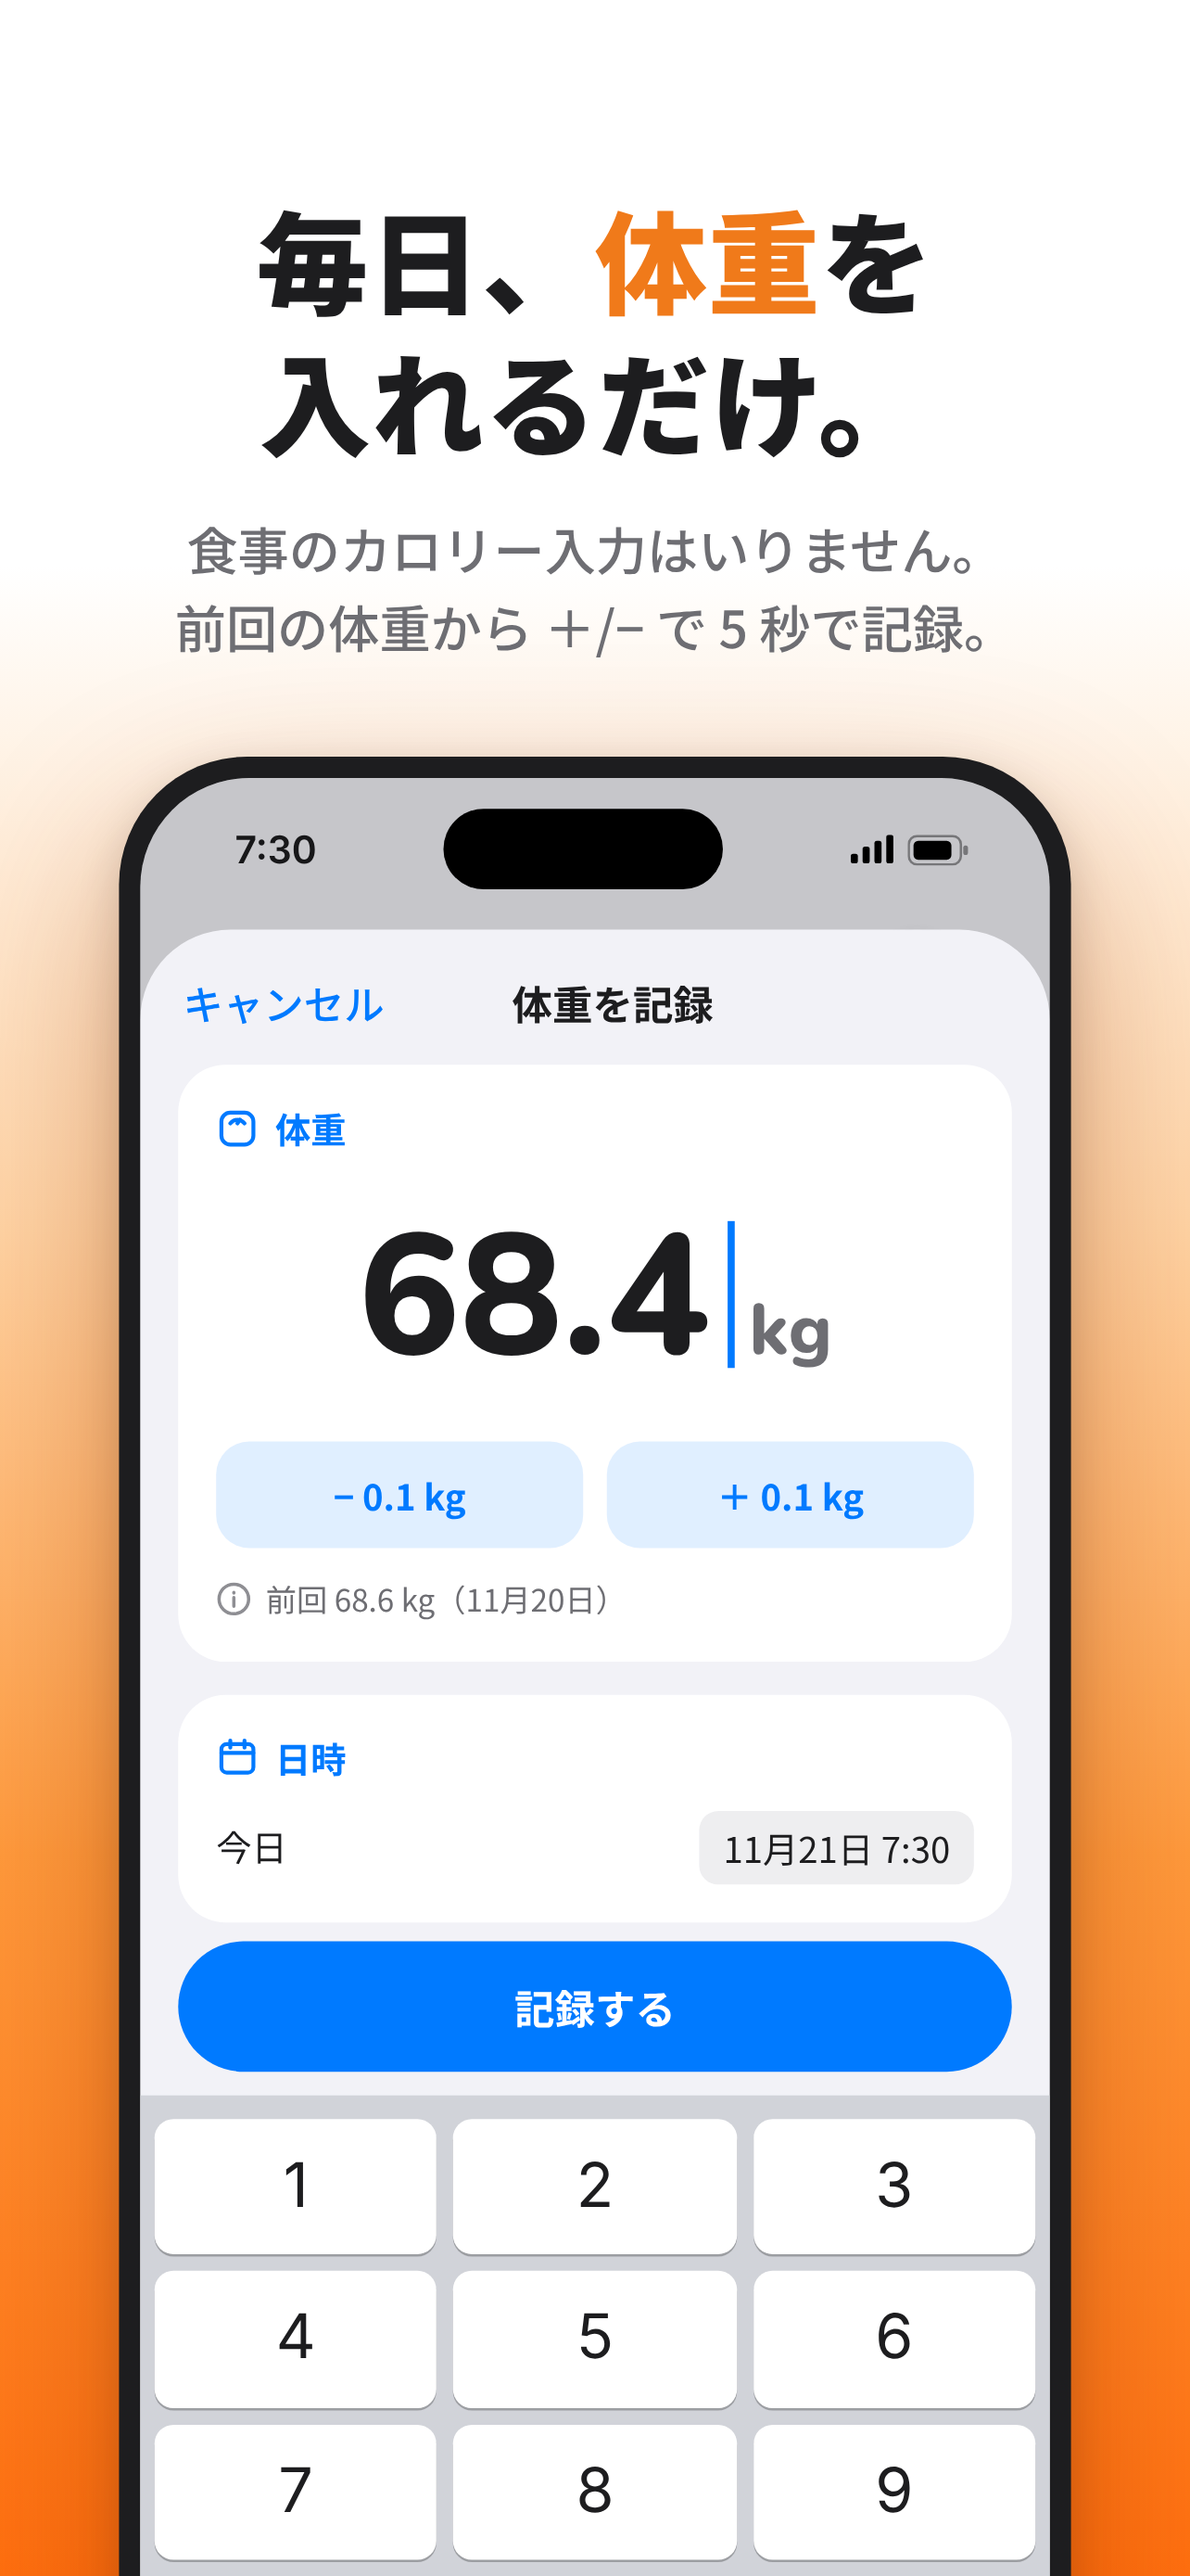
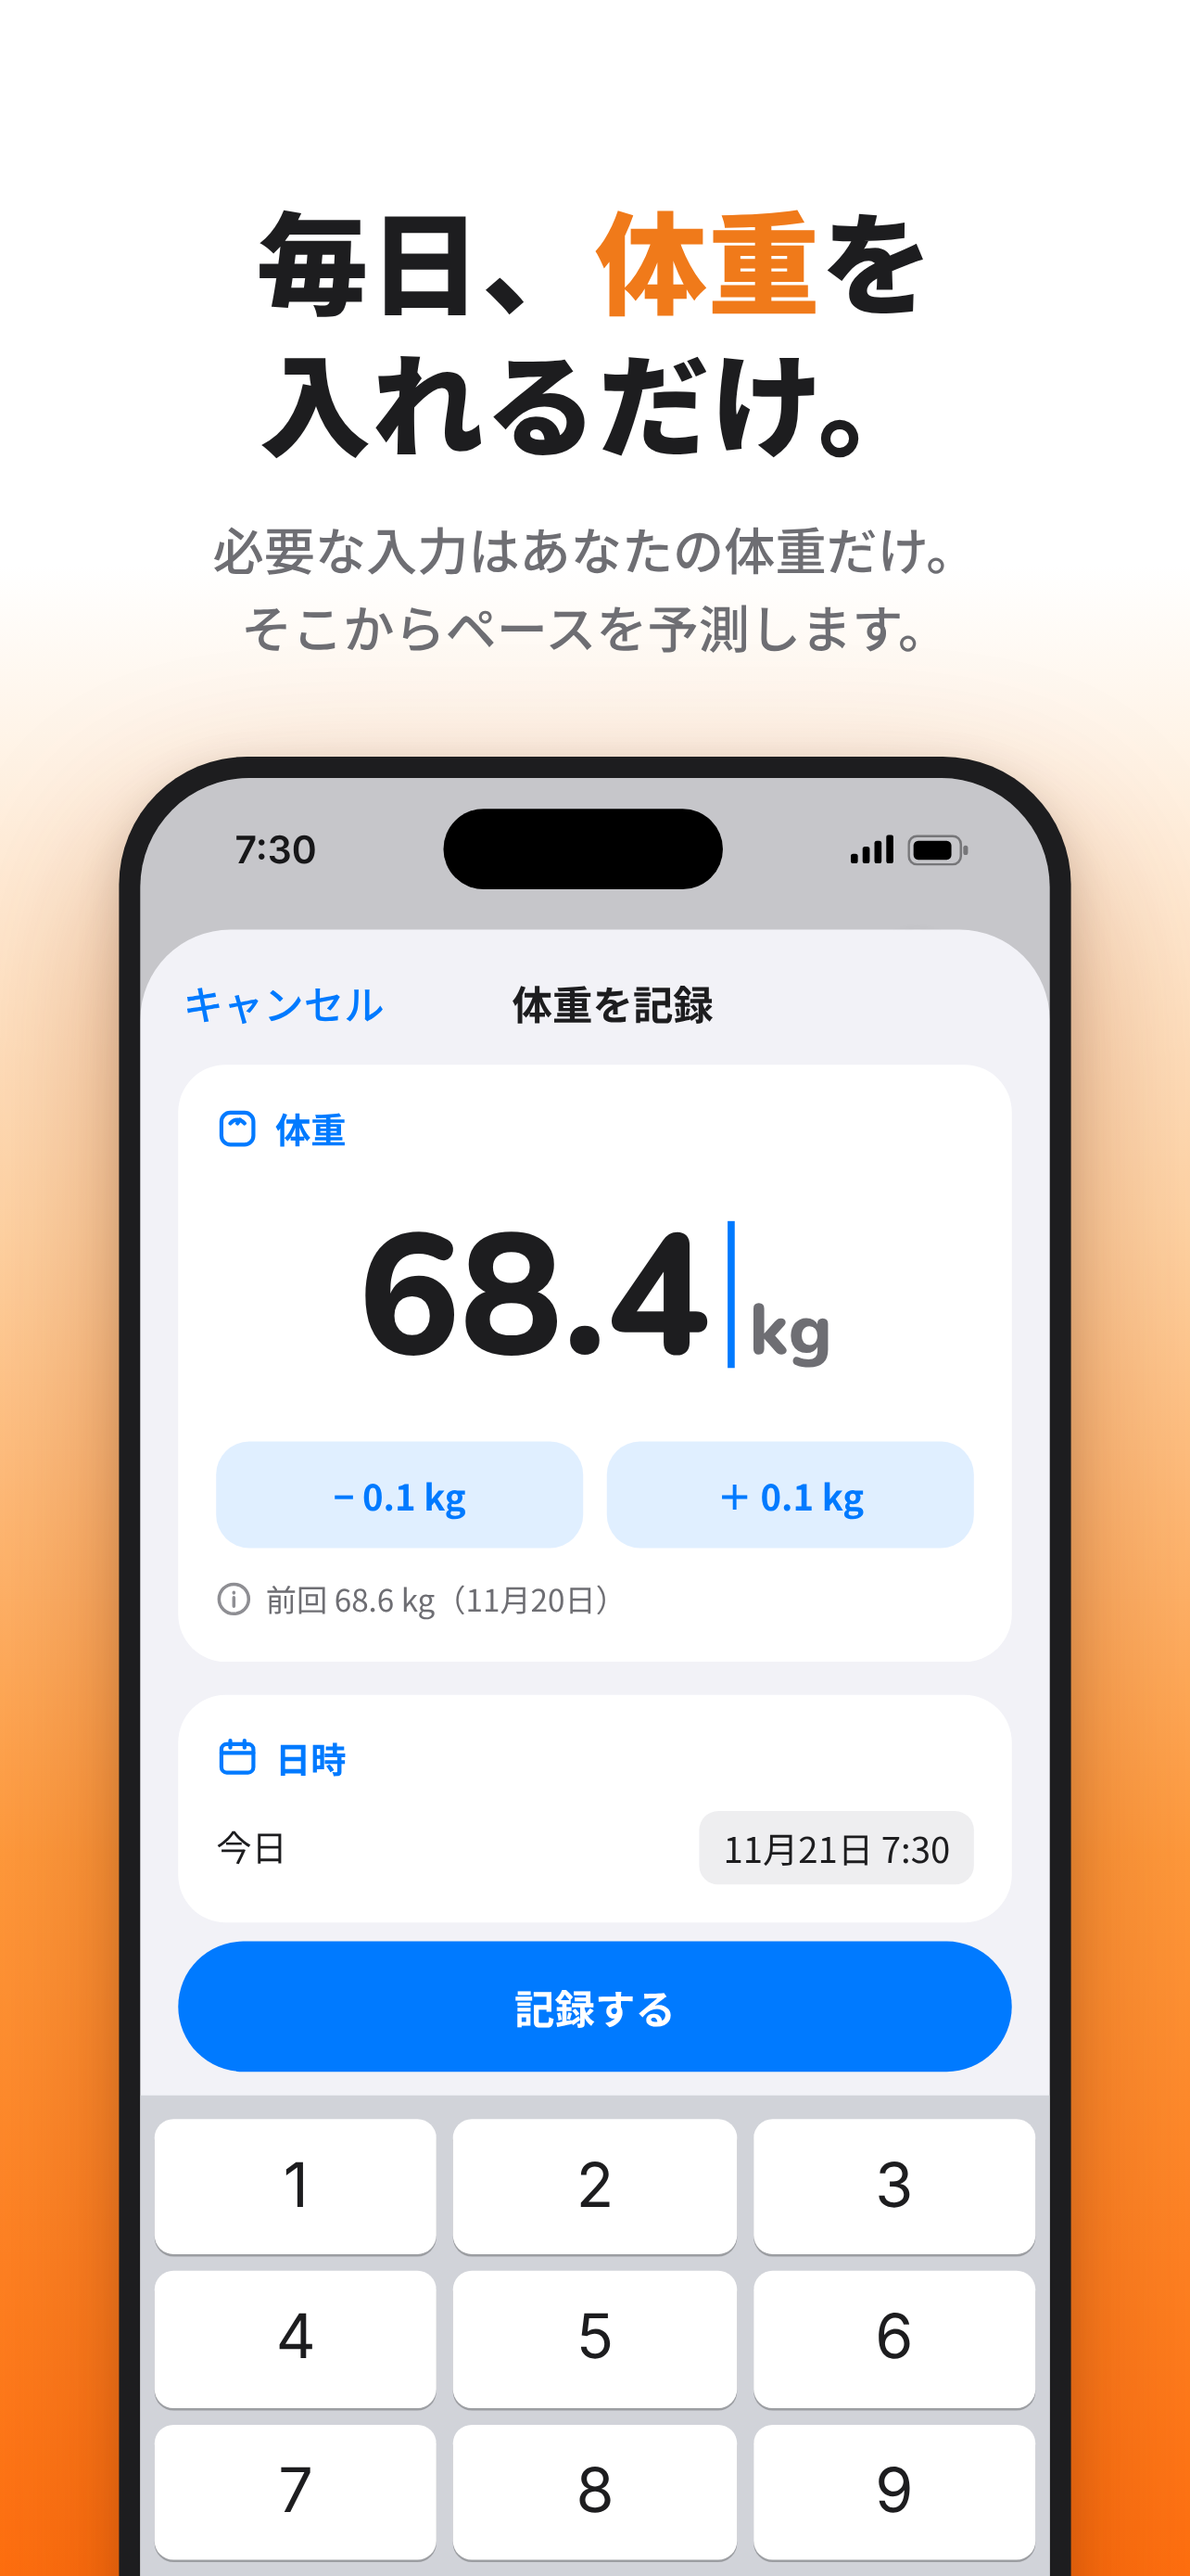
プレビュー画像の説明の一文（2 段目）を開発者の文言に変更（1・2・5 枚目）
Claude-Session: https://claude.ai/code/session_01HgqWwdhngGoEstZSiSDXaE

Changed region(s): [[0.1558, 0.1857, 0.81, 0.2786]]

diff --git a/docs/app-store/source/screens.html b/docs/app-store/source/screens.html
@@ -194,7 +194,7 @@ const legend = (band) => `<div class="legend"><span><i style="width:7px;height:7
 // ---------- 画面ごとの中身 ----------
 const shots = {
   1: { // 入力
-    h: `毎日、<em>体重</em>を<br>入れるだけ。`, p: `食事のカロリー入力はいりません。<br>前回の体重から ＋/− で 5 秒で記録。`,
+    h: `毎日、<em>体重</em>を<br>入れるだけ。`, p: `必要な入力はあなたの体重だけ。<br>そこからペースを予測します。`,
     screen: () => `${status()}
       <div style="padding:0 18px">${nav("ホーム")}</div>
       <div class="sheetbg"></div>
@@ -211,7 +211,7 @@ const shots = {
       </div>`,
   },
   2: { // 予測
-    pro: true, h: `目標に<em>届く日</em>が、<br>見える。`, p: `直近 3 週間の記録に線を引いて、<br>このペースで届く日を予測します。`,
+    pro: true, h: `目標に<em>届く日</em>が、<br>見える。`, p: `直近のデータからペースを予測し、<br>目標達成見込みの日程を推測します。`,
     screen: () => `${status()}<div>${nav("ホーム")}</div><div class="content">
       ${card("体重", I.scale, `<div class="row">${metric("最新の体重", "68.4", "kg", "hero", { caption: "11月21日 7:30" })}${metric("目標まで", "5.4", "kg", "medium", { color: "#34C759", caption: "目標 63.0 kg" })}</div>`)}
       ${card("体重のグラフ", I.chart, `${chart()}${legend()}`)}
@@ -254,7 +254,7 @@ const shots = {
     },
   },
   5: { // Pro
-    pro: true, h: `順調なら、<br><em>チートデー</em>も提案。`, p: `予定より先に進んでいるときだけ。<br>食べ放題ではなく、維持カロリーまで。`,
+    pro: true, h: `順調なら、<br><em>チートデー</em>も提案。`, p: `チートデーも正しく取ることで、<br>リバウンドを防ぎます。`,
     screen: () => `${status()}<div>${nav("ホーム")}</div><div class="content">
       ${card("チートデー", I.fork, `${metric("予定より", "0.7", "kg 先に進んでいます", "large", { color: "#34C759", caption: "予定の線 69.1 kg・今の体重の目安 68.4 kg" })}
         <div class="text" style="font-size:14.5px">この 7 日のうち 2 日まで、2,150 kcal まで食べても期限に間に合う見込みです。ほかの日は今までどおり 1,650 kcal が目安です。</div>
